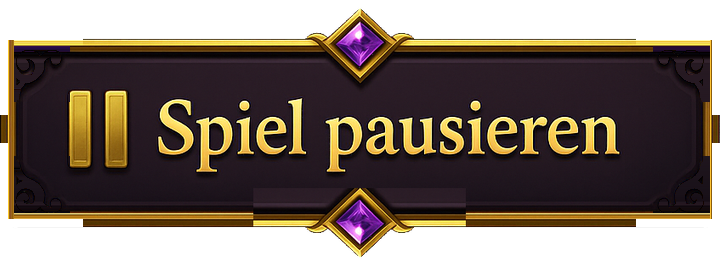
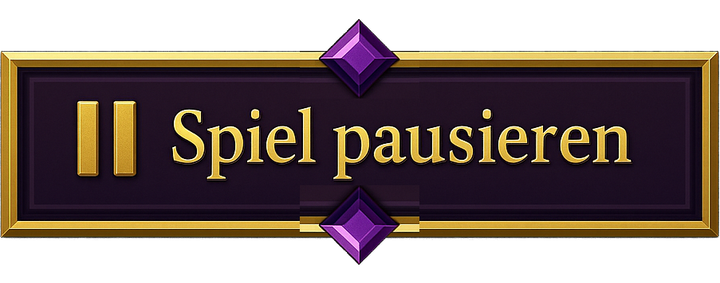
Spieltisch-Buttons: komplett neu generiert (scharfe Ecken, nichts abgeschnitten)
Nach Guthaben-Aufladung alle vier Buttons als EIN Set neu erzeugt: native
90-Grad-Ecken, Edelsteine oben+unten, einzeilige Goldschrift, identischer
Rahmen. Bei "Spiel pausieren" fehlten die Gems -> per Patch von Button 1
transplantiert (oben + gespiegelt unten). Linien-Erkennung auf Gold-Abdeckung
umgestellt (Textzeile wurde faelschlich als Rahmen erkannt). Einheitlich
720x283, CSS-aspect-ratio angepasst, Versionen gebumpt. Im Spiel verifiziert.

diff --git a/index.html b/index.html
@@ -1042,9 +1042,9 @@
   .action-dock { display: flex; justify-content: center; margin-top: 6px; min-height: 104px; align-items: center; }
   /* "Stiche ansagen": fertige Grafik (Text ist Teil des Bildes). */
   .bid-open-btn {
-    background: url('lobby/ui-bid.png?v=6') center/100% 100% no-repeat;
+    background: url('lobby/ui-bid.png?v=7') center/100% 100% no-repeat;
     border: none; box-shadow: none; color: transparent; font-size: 0; padding: 0;
-    width: clamp(120px, 29vw, 224px); aspect-ratio: 720 / 266;
+    width: clamp(120px, 29vw, 224px); aspect-ratio: 720 / 283;
     display: inline-block; cursor: pointer;
     animation: bidPulse 1.9s ease-in-out infinite;
   }
@@ -1266,9 +1266,9 @@
   /* "Alle Karten": gemalte Pille als Hintergrund */
   .hand-view-btn {
     position: static; z-index: 6;
-    border: none; box-shadow: none; background: url('lobby/ui-allcards.png?v=6') center/100% 100% no-repeat;
+    border: none; box-shadow: none; background: url('lobby/ui-allcards.png?v=7') center/100% 100% no-repeat;
     color: transparent; font-size: 0; padding: 0; cursor: pointer;
-    width: clamp(120px, 29vw, 224px); aspect-ratio: 720 / 266; display: inline-block;
+    width: clamp(120px, 29vw, 224px); aspect-ratio: 720 / 283; display: inline-block;
   }
   .hand-view-btn:hover { filter: brightness(1.1); }
   /* Steuer-Pillen mit gemalten Rahmen */
@@ -1306,10 +1306,10 @@
   .nav-btn {
     border: none; padding: 0; cursor: pointer; color: transparent; font-size: 0;
     background: center/100% 100% no-repeat;
-    width: clamp(150px, 45vw, 300px); aspect-ratio: 720 / 266;
+    width: clamp(150px, 45vw, 300px); aspect-ratio: 720 / 283;
   }
-  .nav-btn.nav-leave { background-image: url('lobby/nav-leave.png?v=5'); }
-  .nav-btn.nav-pause { background-image: url('lobby/nav-pause.png?v=5'); }
+  .nav-btn.nav-leave { background-image: url('lobby/nav-leave.png?v=6'); }
+  .nav-btn.nav-pause { background-image: url('lobby/nav-pause.png?v=6'); }
   .nav-btn:hover { filter: brightness(1.08); }
 
   /* Endstand-Rangliste (Spielende) */
